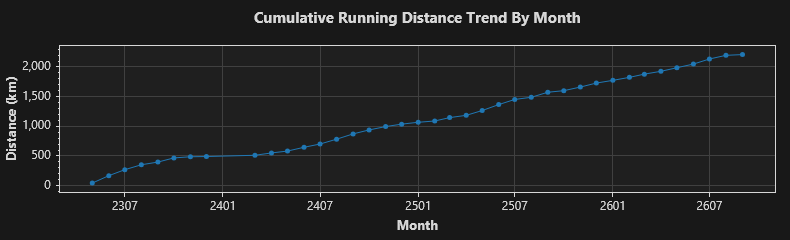
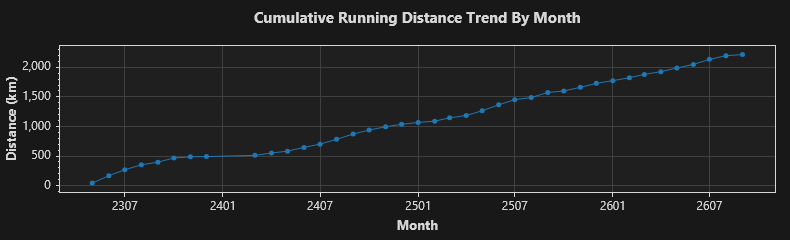
2026/9/7 跑步 6.17 公里

diff --git a/trend.md b/trend.md
@@ -1,4 +1,4 @@
-### Total: 375 days, 2208.6999999999998181010596454 km.
+### Total: 376 days, 2214.8699999999998908606357872 km.
 
 
 ![Monthly](https://github.com/prime167/MyRunningLog/blob/main/data/CumulativeTrendByMonth.png)
